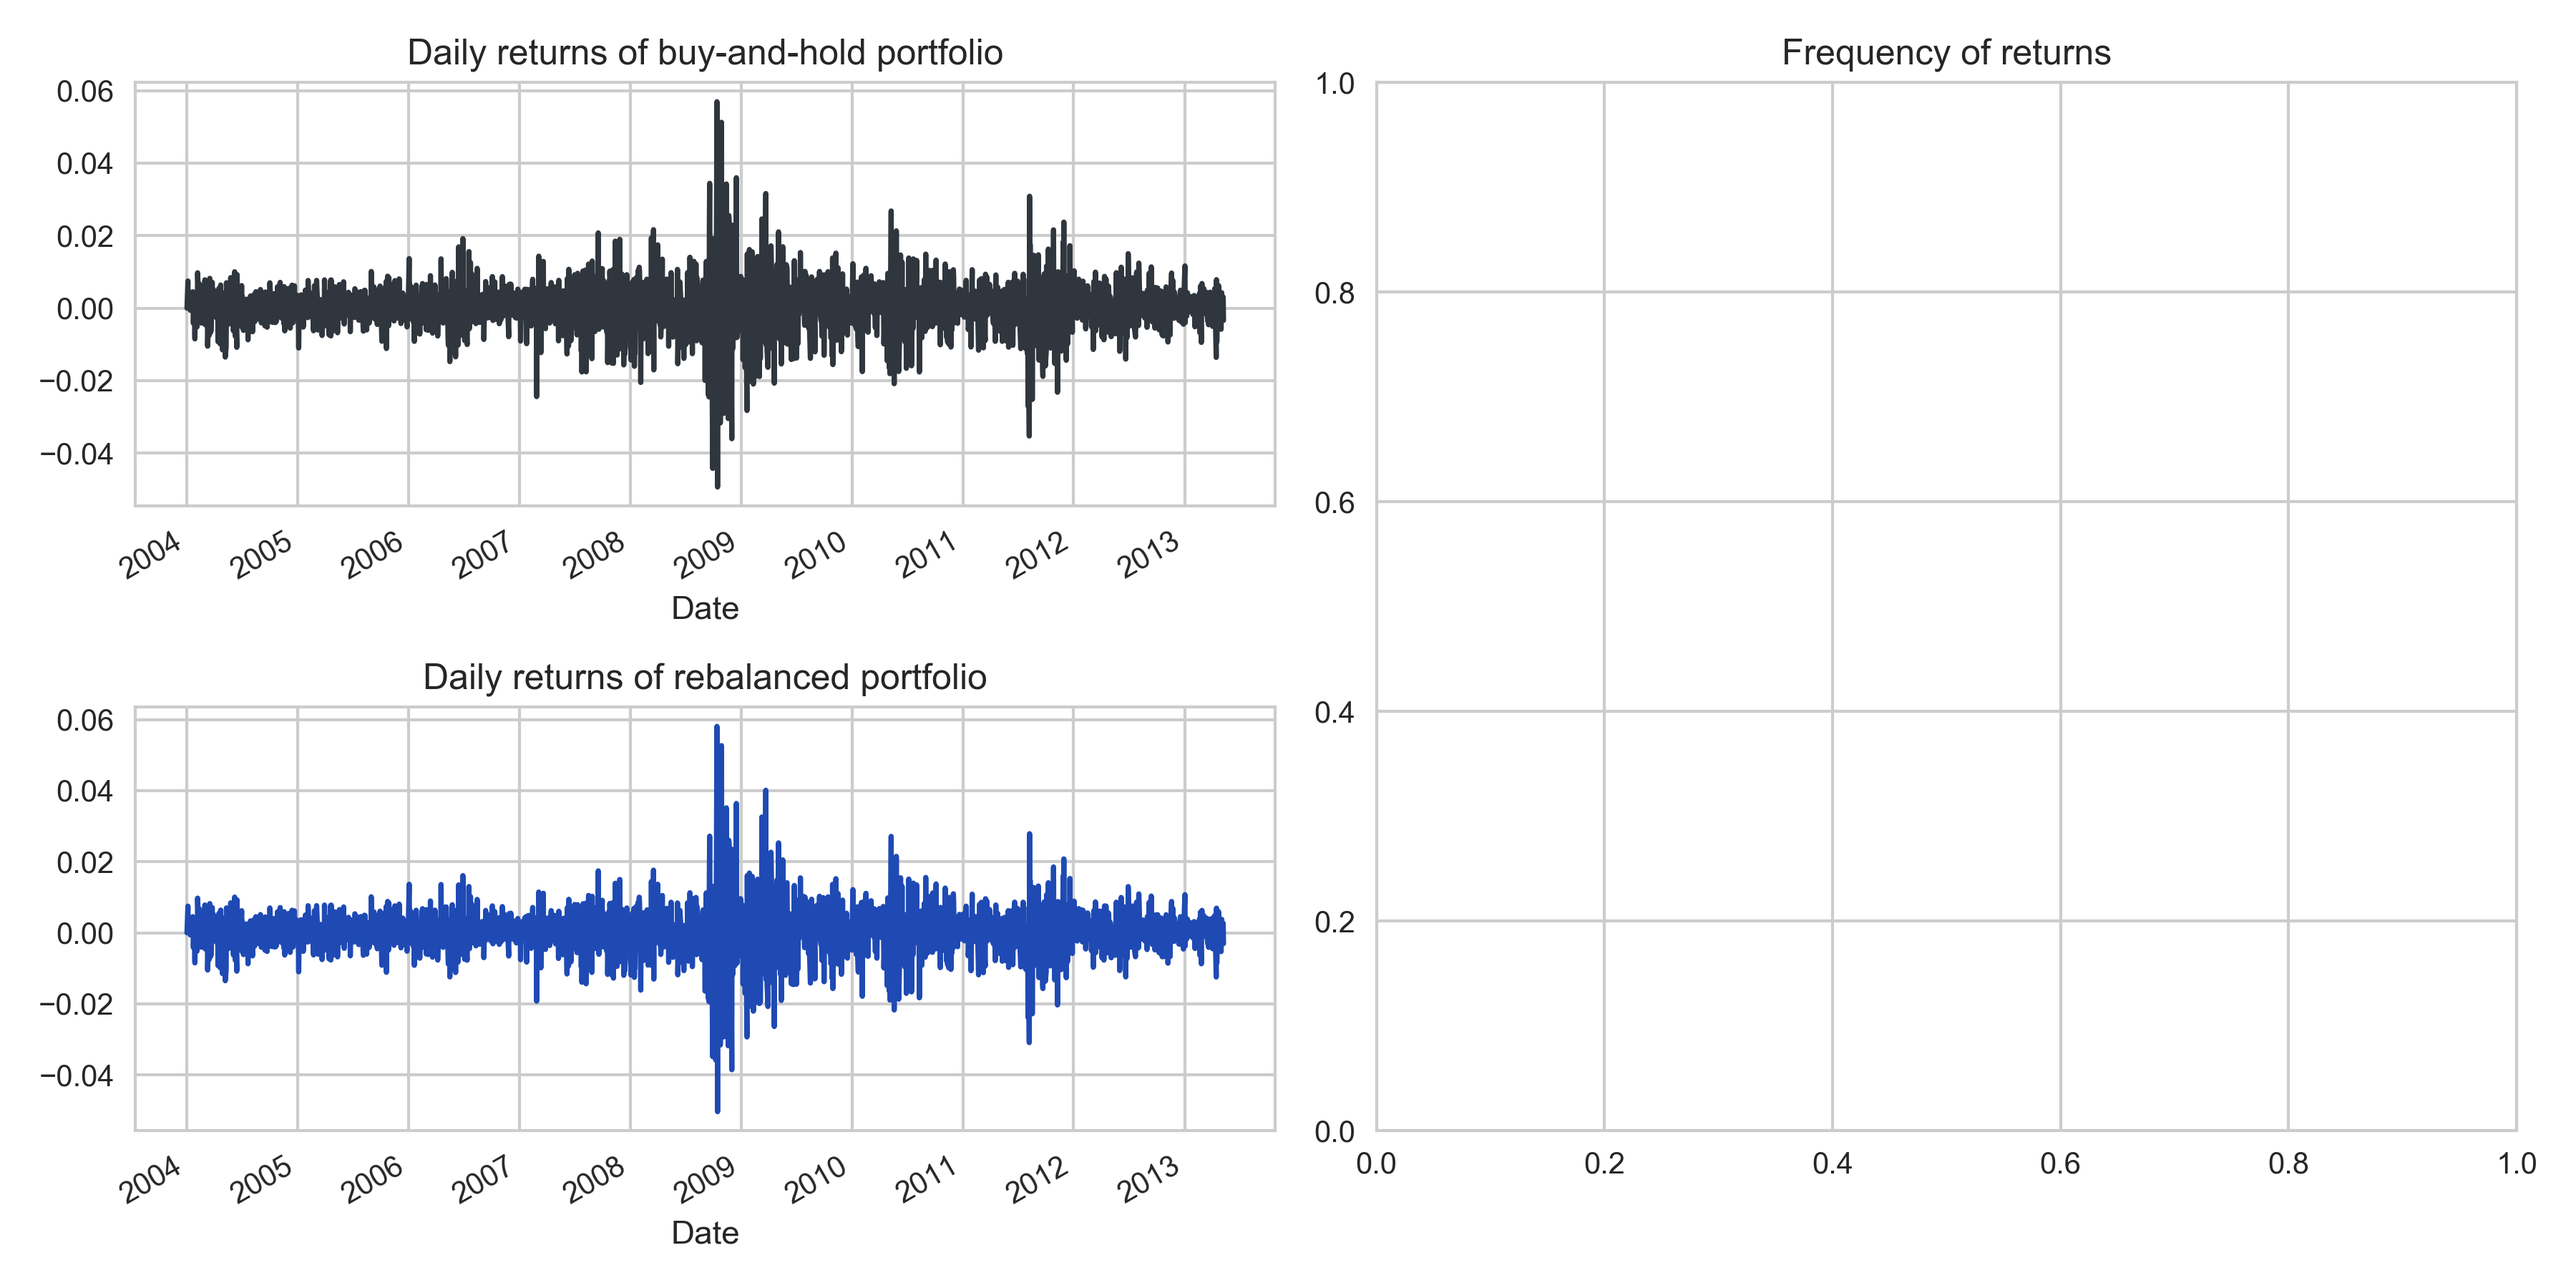
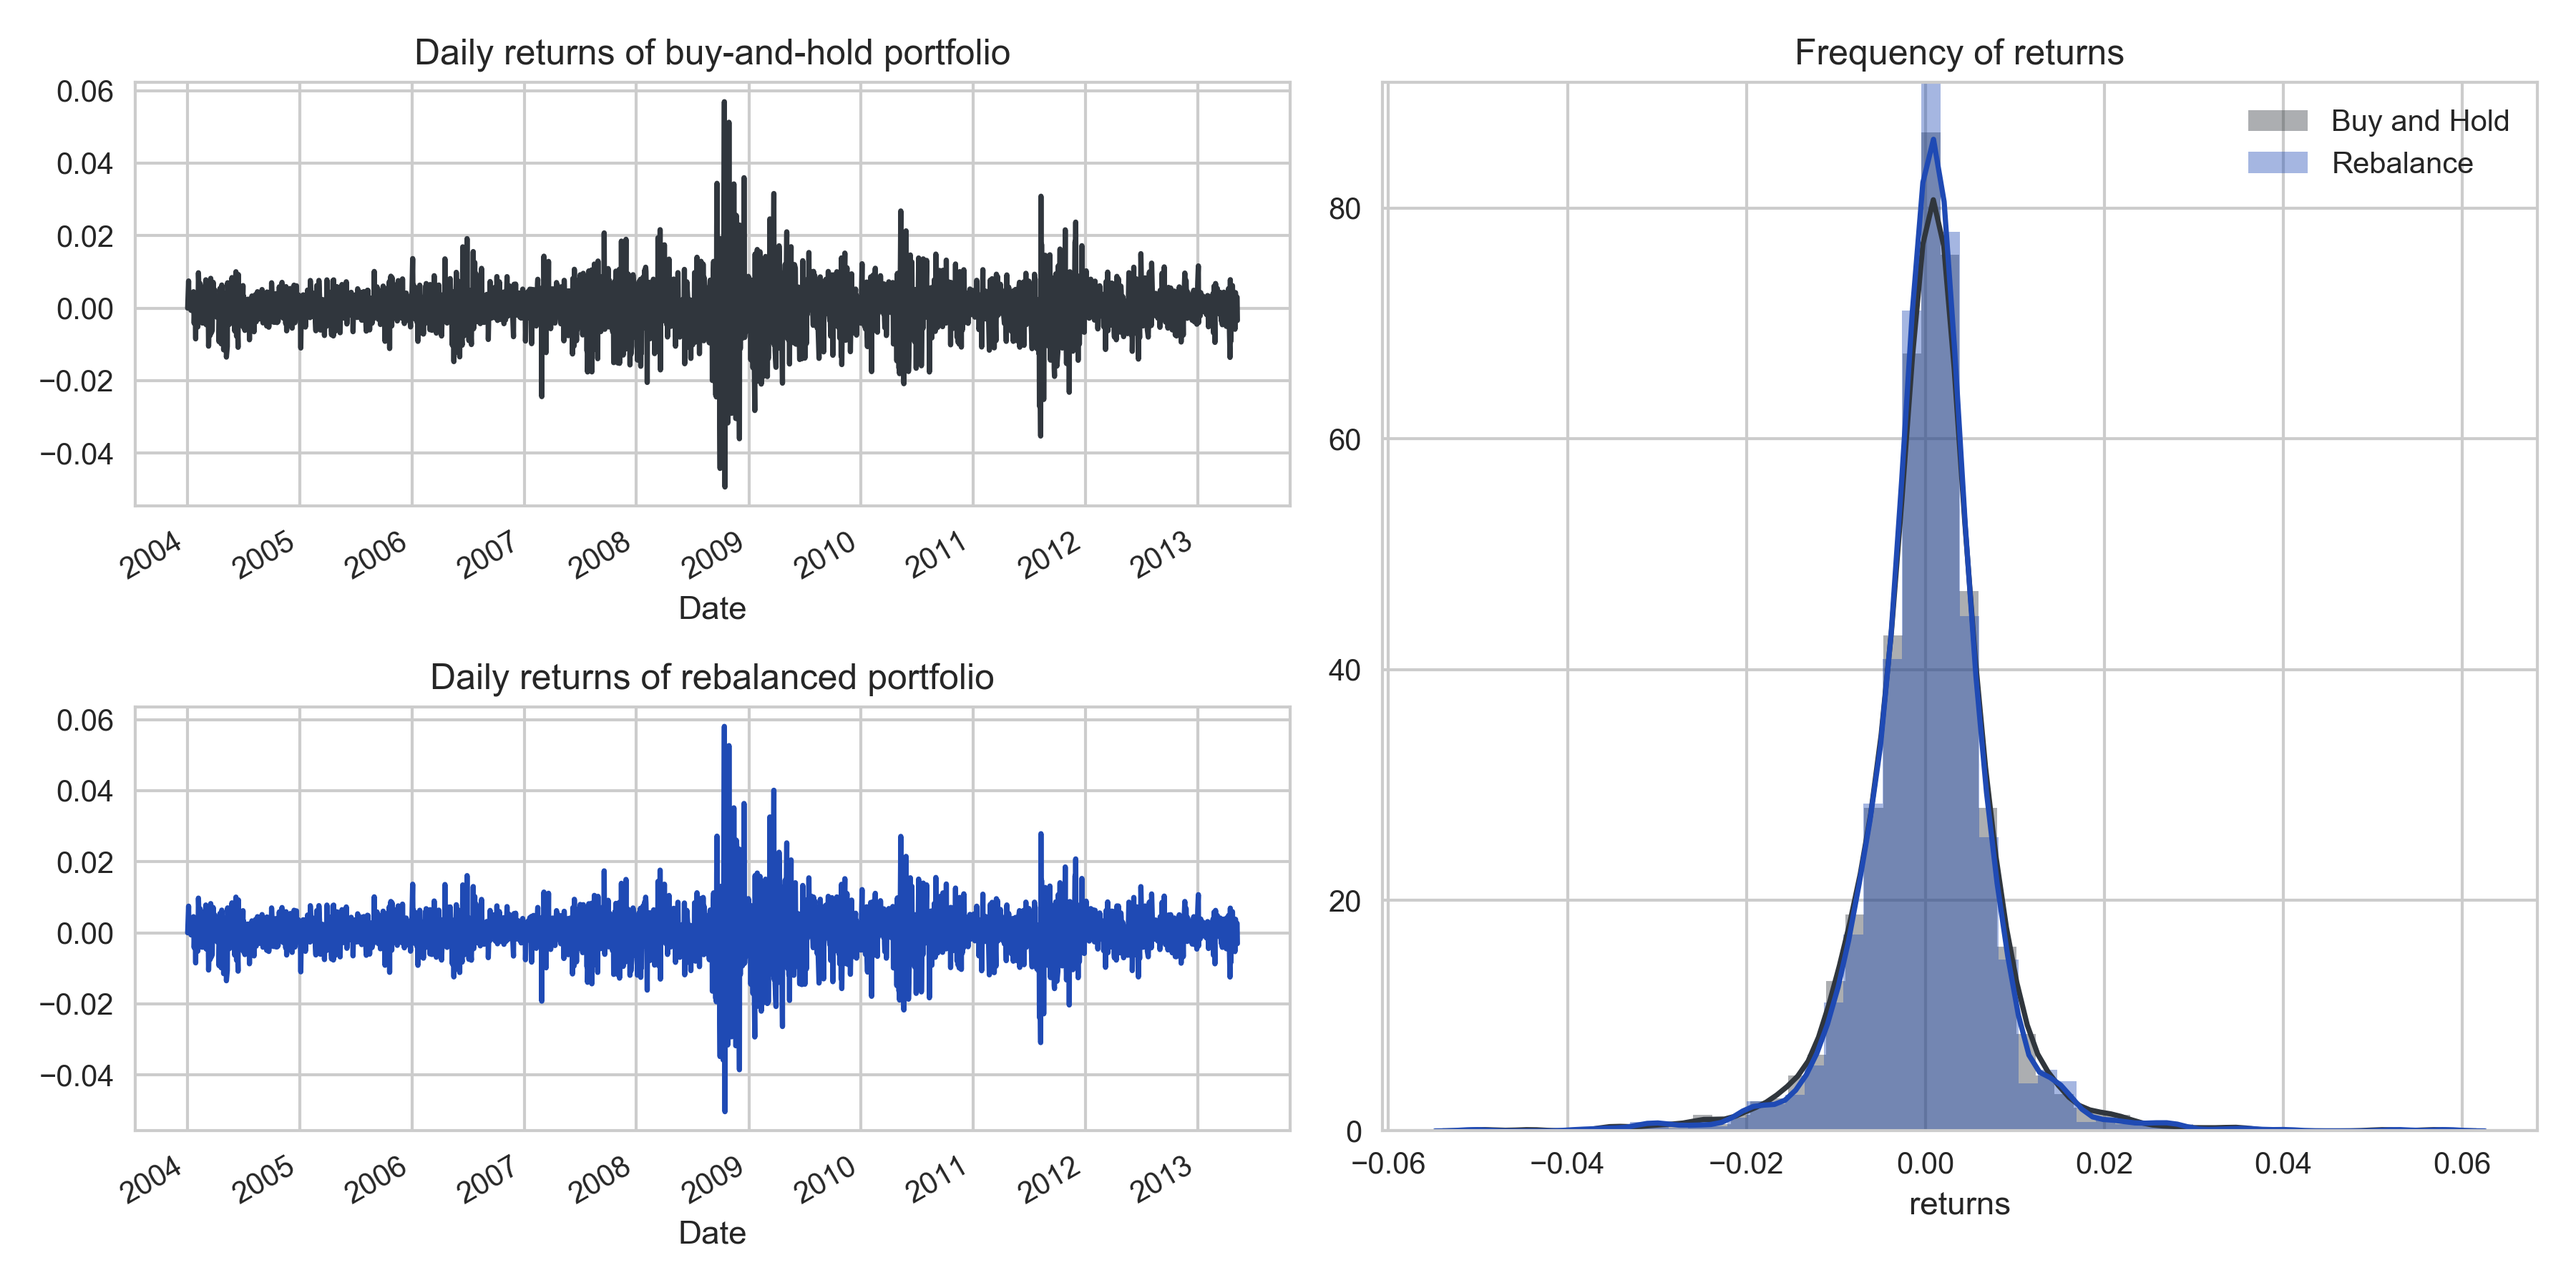
Added back the histogram

diff --git a/bcs.py b/bcs.py
@@ -163,20 +163,20 @@ def save_images(df_1, df_2, df_trades):
         title='Daily returns of rebalanced portfolio',
         color=BETTERMENT_BLUE
     )
-    # sns.distplot(
-    #     a=df_1['returns'],
-    #     #color=BETTERMENT_GRAY,
-    #     ax=hist_ax,
-    #     bins=50,
-    #     label='Buy and Hold'
-    # )
-    # sns.distplot(
-    #     a=df_2['returns'],
-    #     #color=BETTERMENT_BLUE,
-    #     ax=hist_ax,
-    #     bins=50,
-    #     label='Rebalance'
-    # )
+    sns.distplot(
+        a=df_1['returns'],
+        color=BETTERMENT_GRAY,
+        ax=hist_ax,
+        bins=50,
+        label='Buy and Hold'
+    )
+    sns.distplot(
+        a=df_2['returns'],
+        color=BETTERMENT_BLUE,
+        ax=hist_ax,
+        bins=50,
+        label='Rebalance'
+    )
     plt.title('Frequency of returns')
     plt.legend()
     plt.tight_layout()
